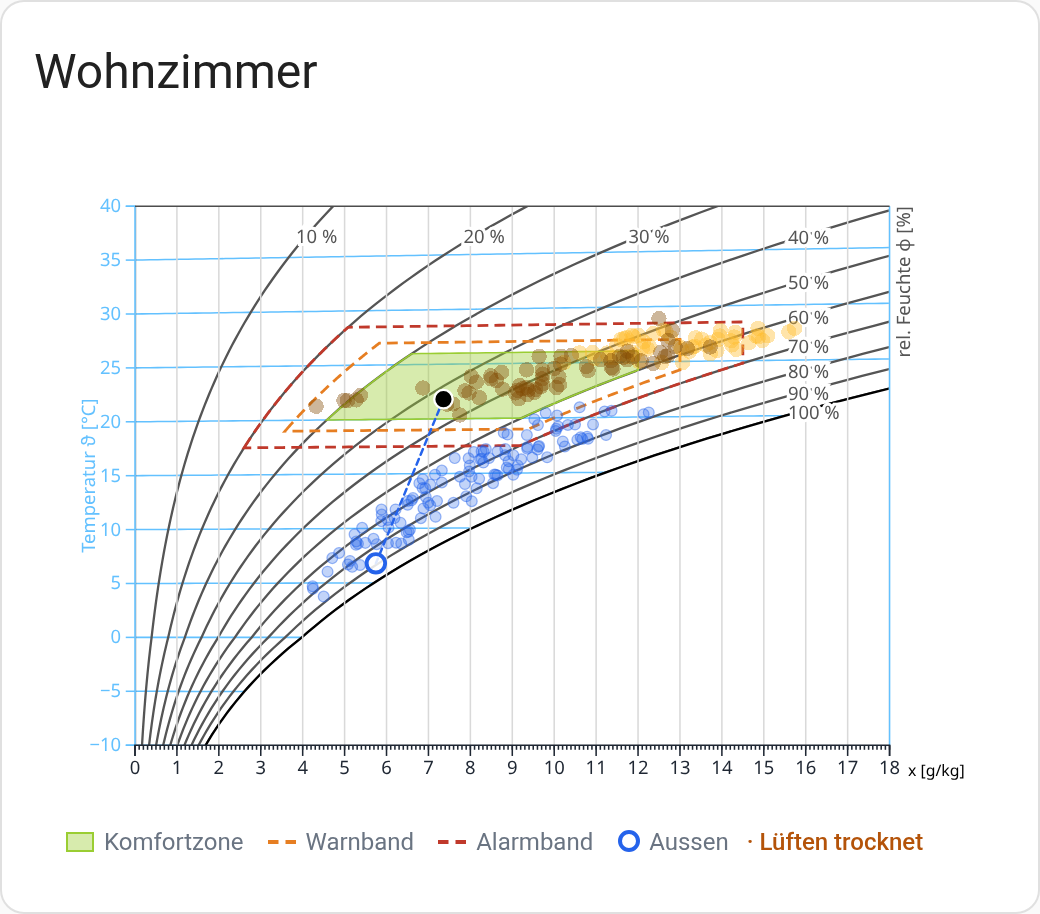
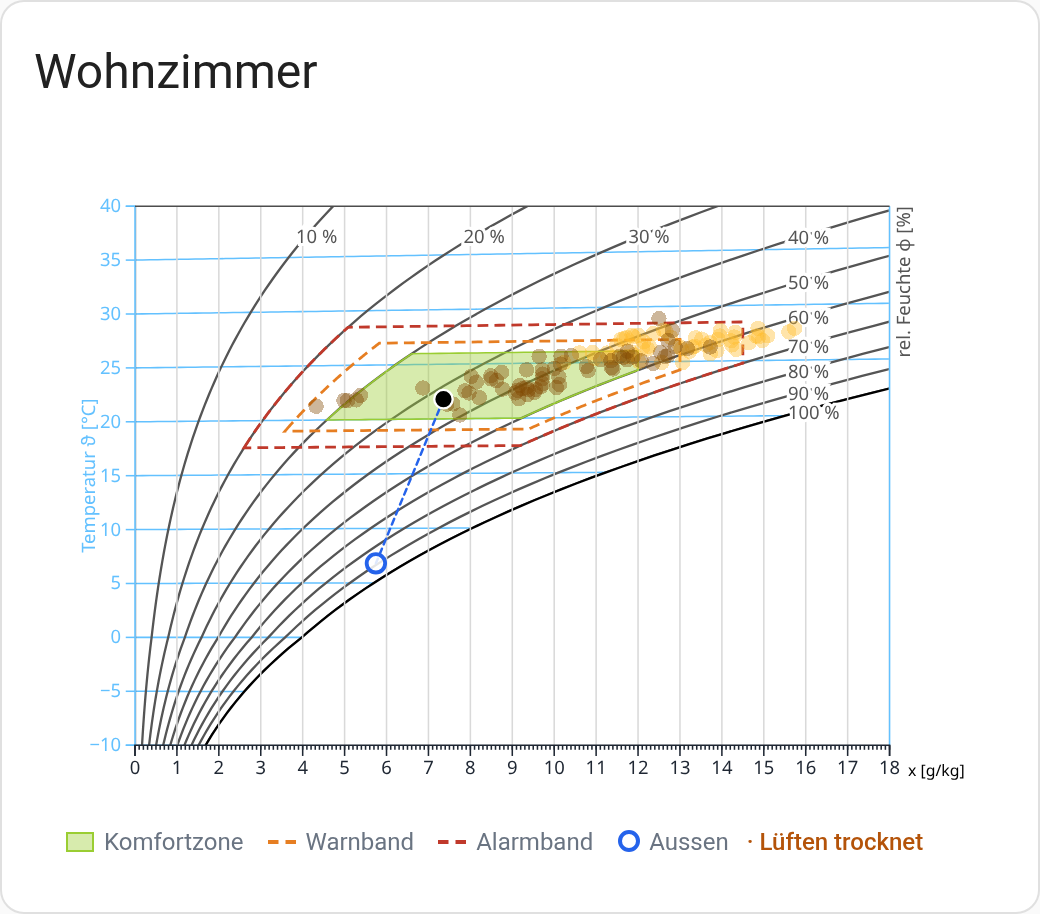
README example and screenshots: current outside point only, no outside history

Changed region(s): [[0.3077, 0.4289, 0.6462, 0.674]]

diff --git a/README.md b/README.md
@@ -126,7 +126,6 @@ lines:
 outdoor_temperature_entity: sensor.outside_temperature
 outdoor_humidity_entity: sensor.outside_humidity
 outdoor_weather_entity: weather.home   # fallback for the current outside point
-outdoor_history: true
 ```
 
 ### Options
